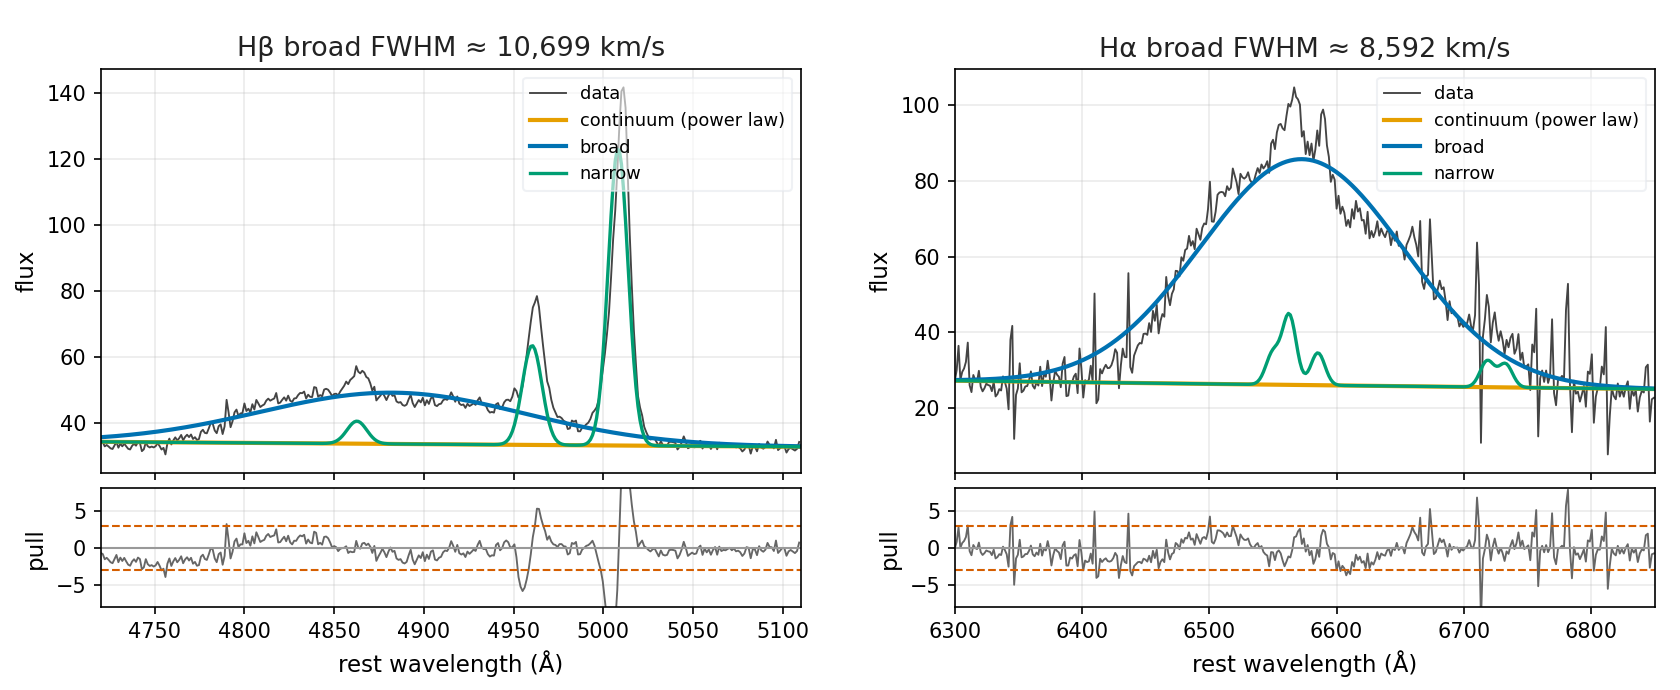
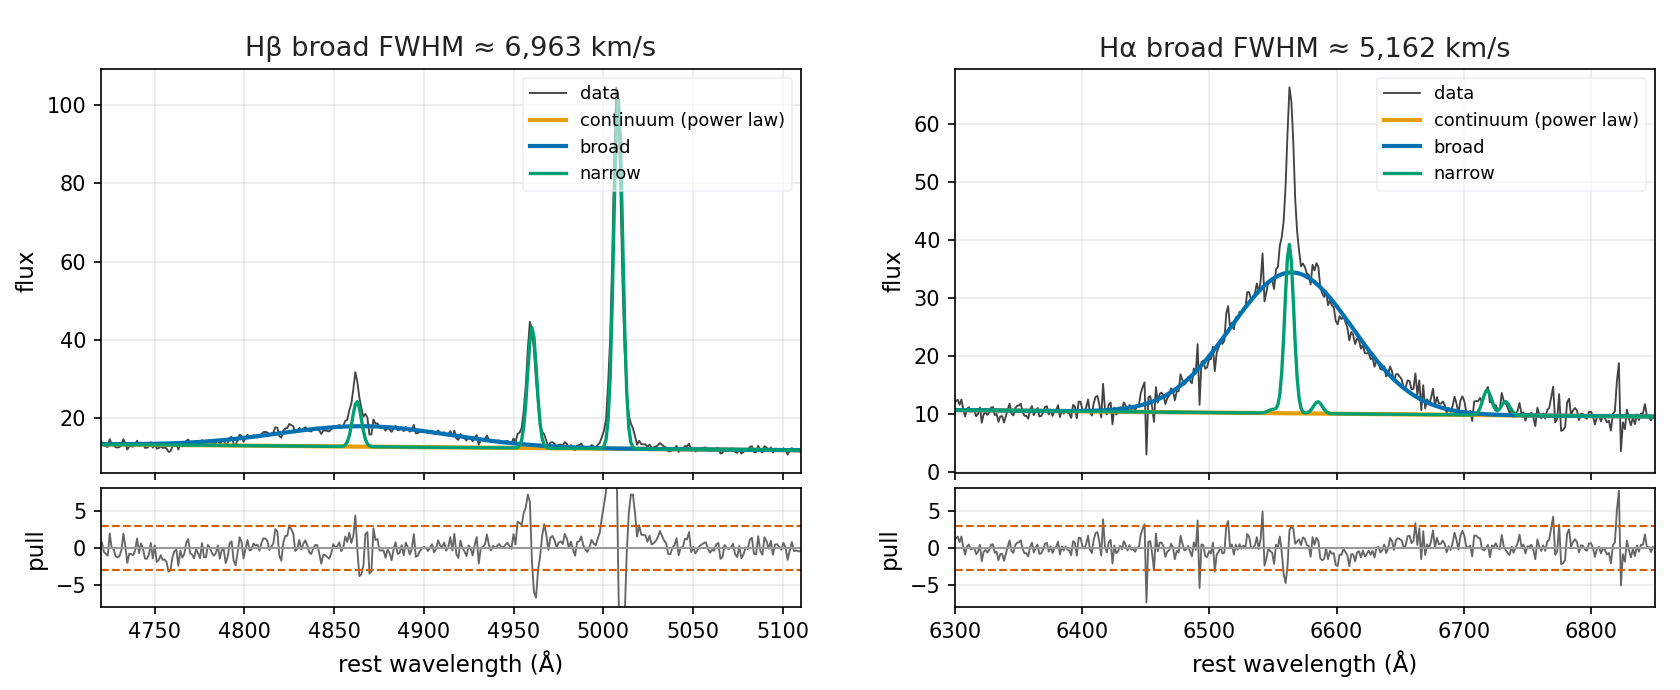
Site: use the default example spectrum (650-52143-166) for the example figure

diff --git a/docs/index.html b/docs/index.html
@@ -121,14 +121,15 @@
   <div class="examples">
     <figure>
       <img src="assets/example-regions.png"
-           alt="Hβ and Hα broad/narrow decomposition for SDSS 388-51793-445">
-      <figcaption><b>SDSS&nbsp;388-51793-445</b> (z&nbsp;=&nbsp;0.3157), a broad-line quasar, fit one region
-        at a time. Left: <span class="lc">H&beta;</span> with [O&nbsp;III]&nbsp;4959/5007; right:
-        <span class="lc">H&alpha;</span> with [N&nbsp;II]/[S&nbsp;II]. The orange power-law continuum, the blue
-        broad Gaussian and the green narrow lines are separated, and the lower panel shows the pull
-        (residual&nbsp;/&nbsp;noise) with &plusmn;3&sigma; bands. Measured broad FWHM &asymp; 10,700&nbsp;km/s
-        (<span class="lc">H&beta;</span>) and 8,600&nbsp;km/s (<span class="lc">H&alpha;</span>). This is the same
-        in-browser fit produced above, run on a different object than the default example.</figcaption>
+           alt="Hβ and Hα broad/narrow decomposition for SDSS 650-52143-166">
+      <figcaption><b>SDSS&nbsp;650-52143-166</b> (z&nbsp;=&nbsp;0.2942), the spectrum behind the
+        <b>Load example</b> button above, fit one region at a time. Left: <span class="lc">H&beta;</span> with
+        [O&nbsp;III]&nbsp;4959/5007; right: <span class="lc">H&alpha;</span> with [N&nbsp;II]/[S&nbsp;II]. The
+        orange power-law continuum, the blue broad Gaussian and the green narrow lines are separated, and the
+        lower panel shows the pull (residual&nbsp;/&nbsp;noise) with &plusmn;3&sigma; bands. Measured broad
+        FWHM &asymp; 6,963&nbsp;km/s (<span class="lc">H&beta;</span>) and 5,162&nbsp;km/s
+        (<span class="lc">H&alpha;</span>). This is exactly what you get by clicking <b>Load example</b> and
+        running it in your browser.</figcaption>
     </figure>
   </div>
 

diff --git a/scripts/render_example_regions.py b/scripts/render_example_regions.py
@@ -16,10 +16,10 @@ from matplotlib import gridspec
 C = 299792.458  # km/s
 PROJ = os.path.dirname(os.path.dirname(os.path.abspath(__file__)))
 
-# a clear broad-line quasar, different from the site's default example
-CSV = os.path.join(PROJ, "examples", "agn_388-51793-445_z0.3157.csv")
-Z = 0.3157
-OBJ = "SDSS 388-51793-445"
+# the same spectrum as the site's "Load example" button (docs/example_spectrum.csv)
+CSV = os.path.join(PROJ, "docs", "example_spectrum.csv")
+Z = 0.2942
+OBJ = "SDSS 650-52143-166"
 OUT = os.path.join(PROJ, "docs", "assets", "example-regions.png")
 
 LINES = {
